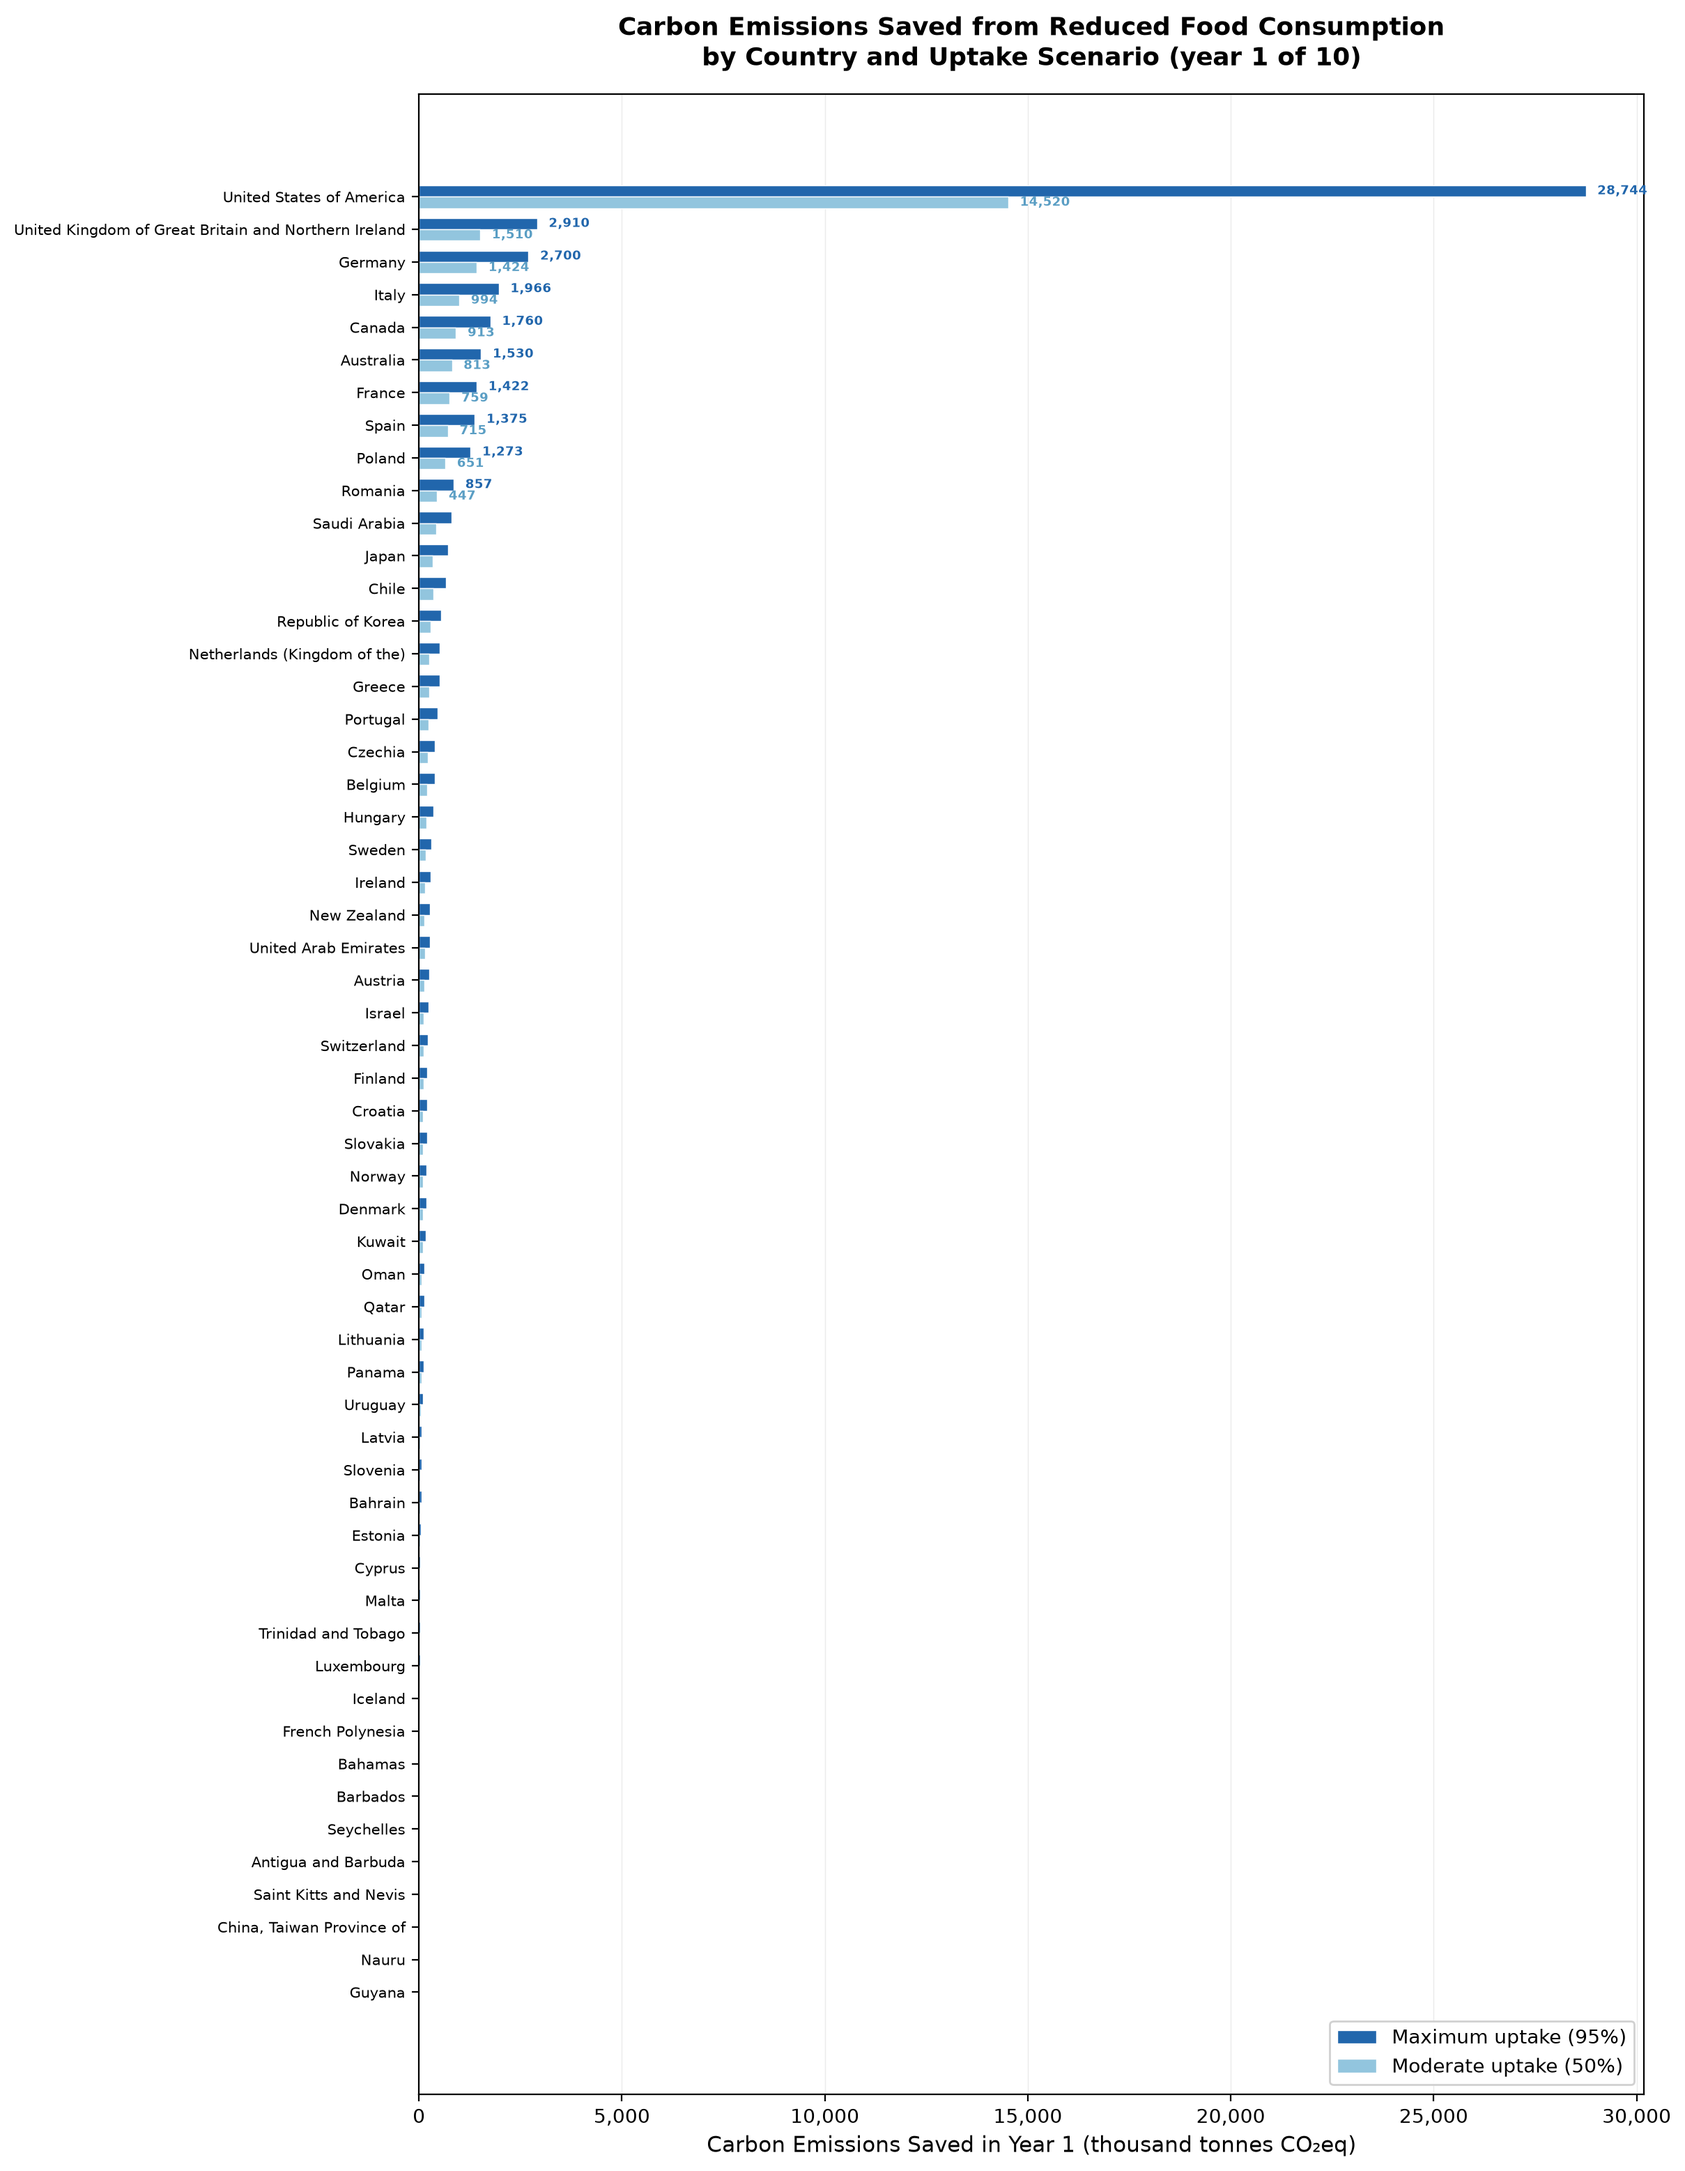
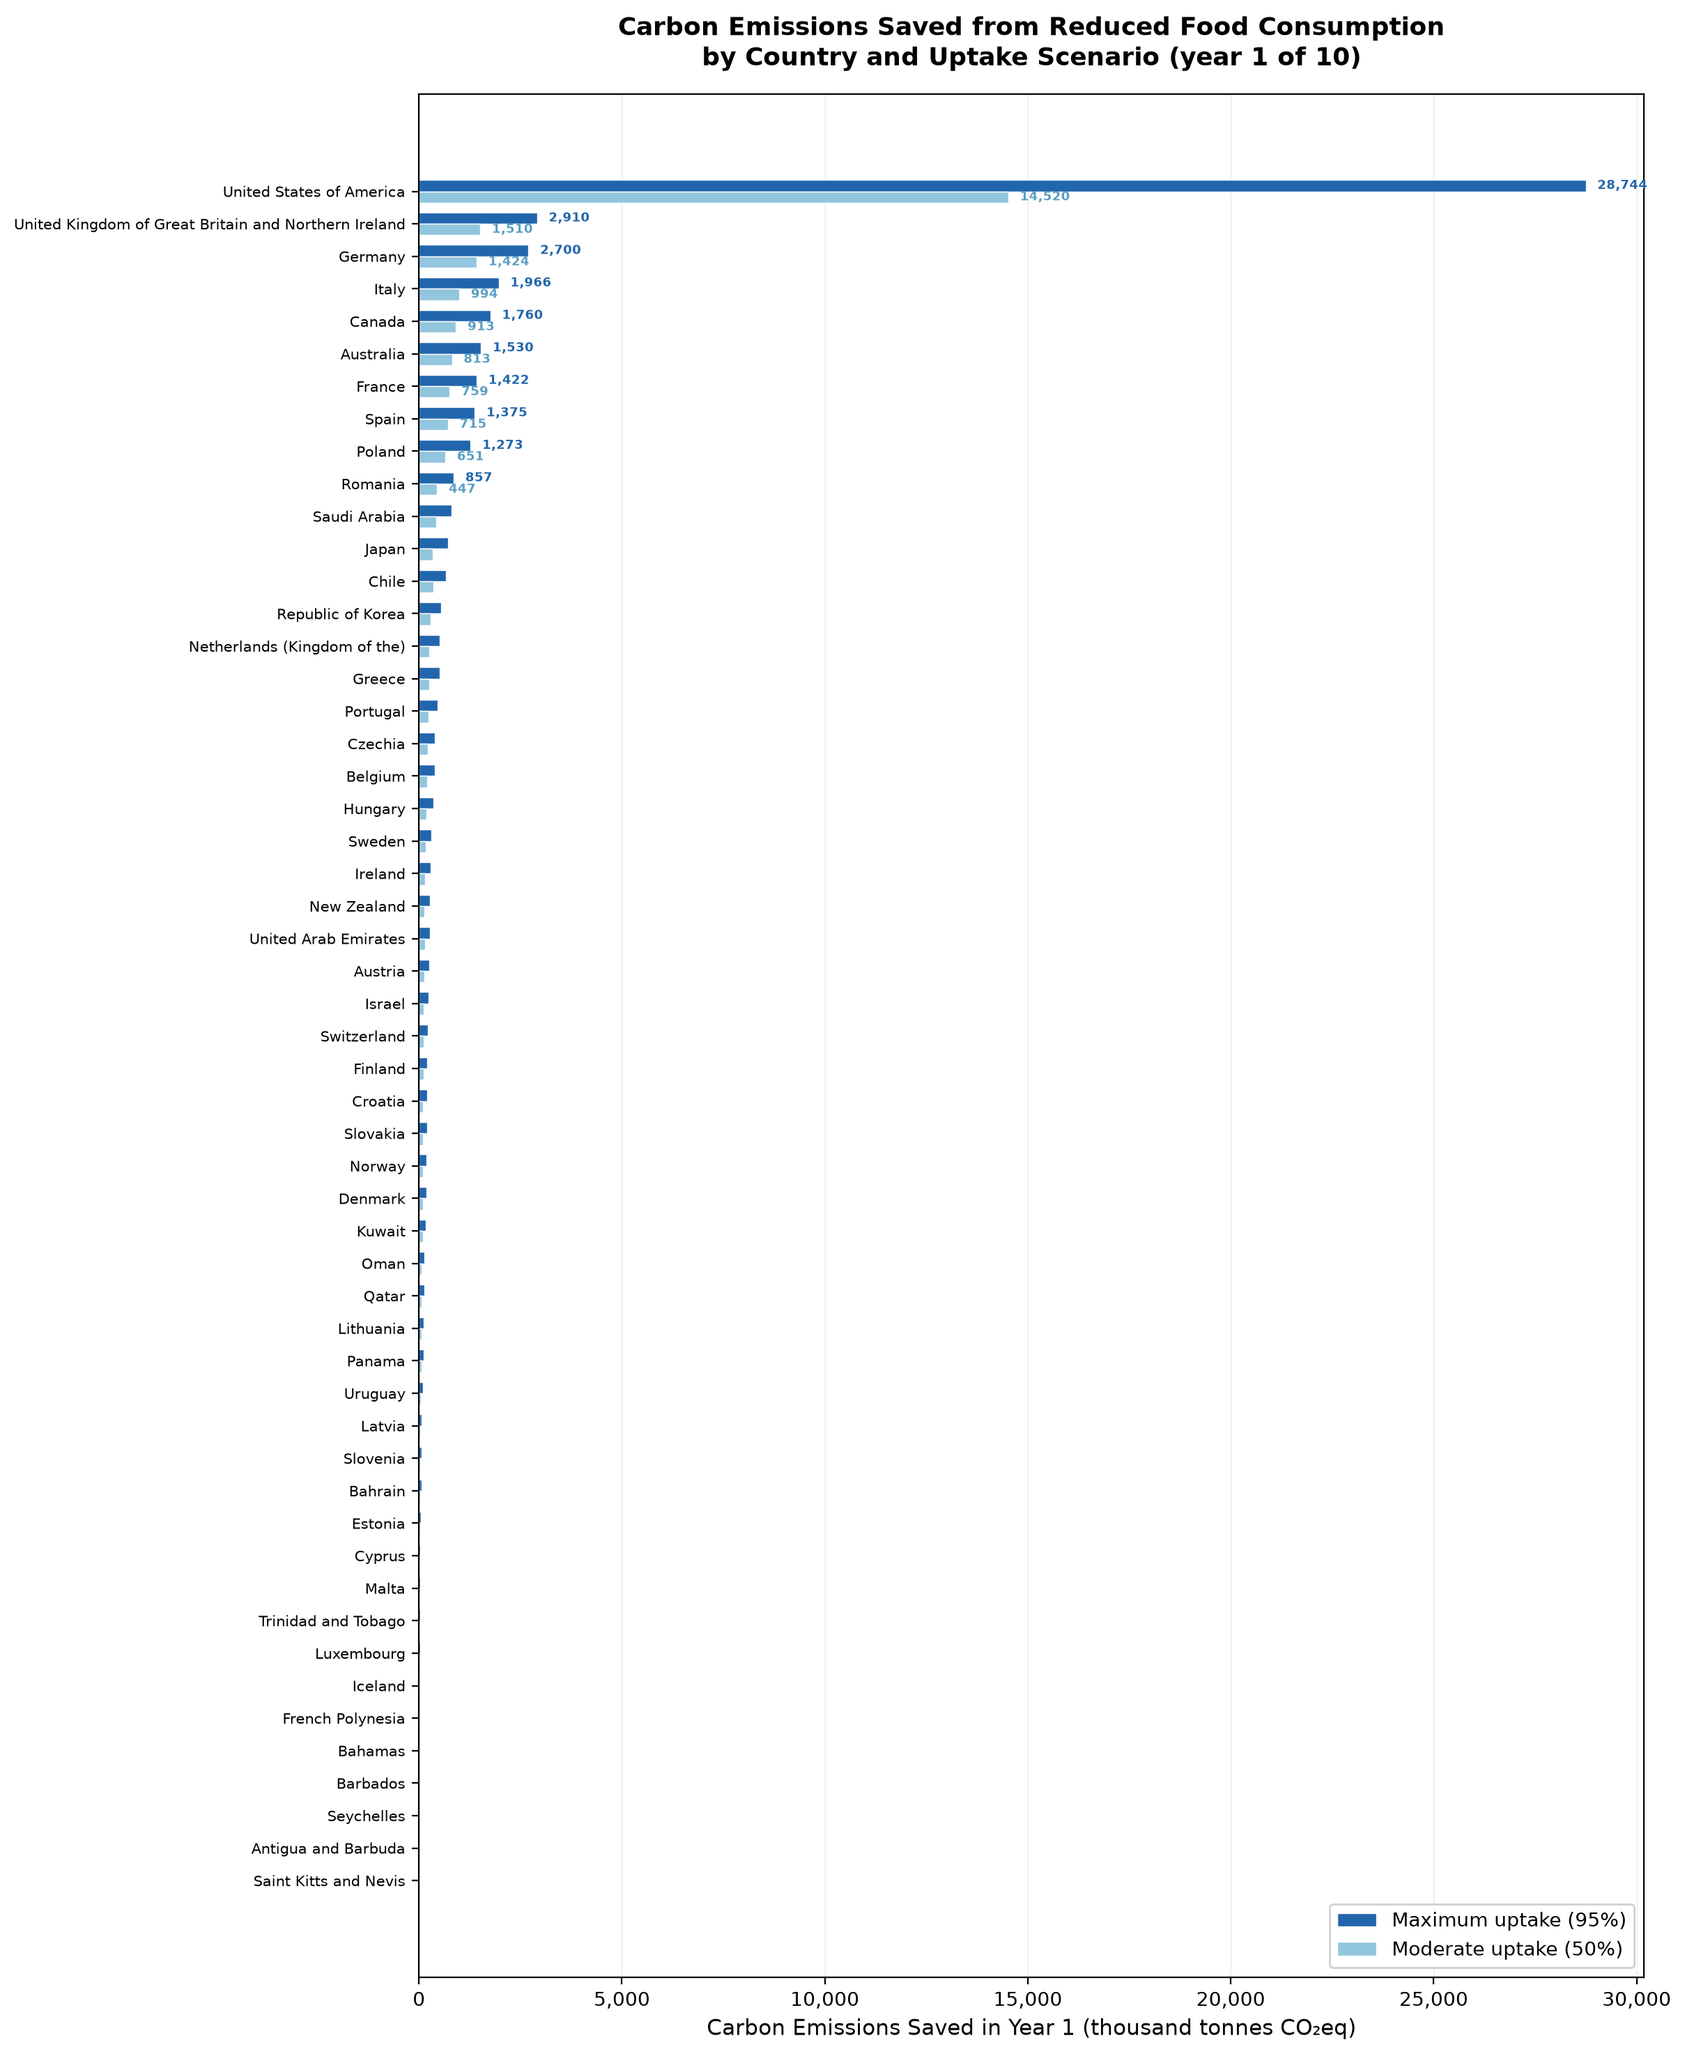
Regenerate the seven outputs the min_count change moves
Full pass, not a partial one: partial regeneration leaves artifacts on mixed bases,
which is how the stale-snapshot problem arose in the first place. All 16 steps of
diagnostics/run_full_pass.sh ran.

The movement set was predicted in writing before anything ran
(diagnostics/predicted_movement.txt) and checked against the diff afterwards
(diagnostics/verify_predicted_diff.py). Seven files were predicted to move, seven
moved, and the sets are identical -- no eighth file, and nothing attributable to a
fourth cause beyond the three named: the six 0.0 -> NaN cells for GUY/NRU/TWN, the
wide pivots dropping an all-NaN index row, and the emissions-figure > 0 filter.

  net_emissions_with_drug.csv                    108 cells, 20 columns
  combined_sensitivity_results.csv               258 cells, 15 columns
  diet_sensitivity_results.csv                    60 cells,  4 columns
  all_sensitivity_overview_country_ratios.csv    TWN row dropped, 41 -> 40
  diet_sensitivity_ratio_comparison.csv          TWN row dropped, 41 -> 40
  combined_sensitivity_ratio_comparison.csv      TWN row dropped, 41 -> 40
  figures/emissions_saved_by_country.png         56 -> 53 bars

Two conditions stronger than the prediction also hold. Every differing cell's new
value is NaN -- 0 of them moved to a different finite number -- and every retained
pivot row is bit-identical, 0 cells differing across the 40 kept rows in each of the
[…]

diff --git a/diagnostics/verify_predicted_diff.py b/diagnostics/verify_predicted_diff.py
@@ -1,0 +1,186 @@
+"""Confirm each moved file changed only in the predicted rows.
+
+The file-level set matched the prediction exactly. This checks the row level: every
+differing cell must belong to GUY, NRU or TWN, and must be a value becoming NaN (or
+a row disappearing from a wide pivot). A differing cell on any other country is a
+fourth cause and gets reported.
+"""
+
+from __future__ import annotations
+
+import io
+import subprocess
+
+import numpy as np
+import pandas as pd
+
+from data_visualization.pipeline import ROOT
+from diagnostics.report import Report
+
+EXPECTED = {"GUY", "NRU", "TWN"}
+rep = Report(
+    "verify_predicted_diff",
+    "Row-level check that the regeneration moved only GUY/NRU/TWN, as predicted.",
+)
+problems: list[str] = []
+
+
+def head_blob(rel: str) -> pd.DataFrame:
+    """Read a file as of HEAD, smudging it if it is an LFS pointer.
+
+    Most data_result CSVs are LFS-tracked, so `git show HEAD:path` returns a
+    ~130-byte pointer, which read_csv happily parses into a one-column frame. That
+    is worse than an error: a comparison against it looks like "every column
+    changed" rather than like a broken read. Detect and smudge.
+    """
+    raw = subprocess.run(
+        ["git", "-C", str(ROOT), "show", f"HEAD:{rel}"],
+        capture_output=True, check=True,
+    ).stdout
+    if raw.startswith(b"version https://git-lfs"):
+        raw = subprocess.run(
+            ["git", "-C", str(ROOT), "lfs", "smudge"],
+            input=raw, capture_output=True, check=True,
+        ).stdout
+    df = pd.read_csv(io.BytesIO(raw), float_precision="round_trip")
+    if len(df.columns) < 2:
+        raise RuntimeError(
+            f"{rel} read as {len(df.columns)} column(s) from HEAD -- almost "
+            "certainly still an unsmudged LFS pointer. Refusing to compare."
+        )
+    return df
+
+
+ROW_DUMPS = [
+    ("data_result/net_emissions_with_drug.csv", ["ISO", "scenario"]),
+    ("data_result/diet_sensitivity_results.csv", ["diet_scenario", "ISO", "scenario"]),
+    ("data_result/combined_sensitivity_results.csv",
+     ["combined_scenario", "ISO", "scenario"]),
+]
+
+rep.h2("Per-country row dumps: which rows and columns moved")
+for rel, key in ROW_DUMPS:
+    old = head_blob(rel)
+    new = pd.read_csv(ROOT / rel, float_precision="round_trip")
+    rep.h3(rel)
+    if list(old.columns) != list(new.columns):
+        problems.append(f"{rel}: column set changed")
+        rep.text("**Column set changed** -- unexpected.")
+        continue
+    if len(old) != len(new):
+        problems.append(f"{rel}: row count changed {len(old)} -> {len(new)}")
+    m = old.merge(new, on=key, suffixes=("_old", "_new"), how="outer", indicator=True)
+    num = [c for c in old.columns if c not in key
+           and pd.api.types.is_numeric_dtype(old[c])
+           and not pd.api.types.is_bool_dtype(old[c])]
+    moved_rows, moved_cells, cols_moved = set(), 0, set()
+    for c in num:
+        a = m[f"{c}_old"].to_numpy(dtype=float)
+        b = m[f"{c}_new"].to_numpy(dtype=float)
+        nn = np.isnan(a) & np.isnan(b)
+        d = (a != b) & ~nn
+        if d.any():
+            cols_moved.add(c)
+            moved_cells += int(d.sum())
+            moved_rows |= set(m.loc[d, "ISO"])
+    off = sorted(moved_rows - EXPECTED)
+    rep.kv({
+        "rows": len(m),
+        "cells differing": moved_cells,
+        "countries with any differing cell": ", ".join(sorted(moved_rows)) or "none",
+        "columns affected": len(cols_moved),
+        "countries outside GUY/NRU/TWN": ", ".join(off) or "none",
+    })
+    rep.text("Columns affected: " + ", ".join(sorted(cols_moved)))
+    if off:
+        problems.append(f"{rel}: unexpected countries {off}")
+    # direction: old finite -> new NaN
+    bad_dir = 0
+    for c in sorted(cols_moved):
+        a = m[f"{c}_old"].to_numpy(dtype=float)
+        b = m[f"{c}_new"].to_numpy(dtype=float)
+        nn = np.isnan(a) & np.isnan(b)
+        d = (a != b) & ~nn
+        bad_dir += int((d & ~np.isnan(b)).sum())
+    rep.kv({"differing cells whose NEW value is not NaN": bad_dir})
+    if bad_dir:
+        problems.append(f"{rel}: {bad_dir} cells moved to a non-NaN value")
+
+rep.h2("Wide pivots: which index rows disappeared")
+for rel in [
+    "data_result/all_sensitivity_overview_country_ratios.csv",
+    "data_result/diet_sensitivity_ratio_comparison.csv",
+    "data_result/combined_sensitivity_ratio_comparison.csv",
+]:
+    old = head_blob(rel)
+    new = pd.read_csv(ROOT / rel, float_precision="round_trip")
+    gone = sorted(set(old["ISO"]) - set(new["ISO"]))
+    added = sorted(set(new["ISO"]) - set(old["ISO"]))
+    rep.h3(rel)
+    rep.kv({
+        "rows before": len(old), "rows after": len(new),
+        "ISO removed": ", ".join(gone) or "none",
+        "ISO added": ", ".join(added) or "none",
+    })
+    if set(gone) - EXPECTED or added:
+        problems.append(f"{rel}: removed {gone}, added {added}")
+    # every retained row must be bit-identical
+    common = sorted(set(old["ISO"]) & set(new["ISO"]))
+    o = old[old["ISO"].isin(common)].sort_values("ISO").reset_index(drop=True)
+    n = new[new["ISO"].isin(common)].sort_values("ISO").reset_index(drop=True)
+    shared = [c for c in o.columns if c in n.columns
+              and pd.api.types.is_numeric_dtype(o[c])]
+    bad = 0
+    for c in shared:
+        a, b = o[c].to_numpy(dtype=float), n[c].to_numpy(dtype=float)
+        nn = np.isnan(a) & np.isnan(b)
+        bad += int(((a != b) & ~nn).sum())
+    rep.kv({"retained rows": len(common),
+            "cells differing among retained rows": bad})
+    if bad:
+        problems.append(f"{rel}: {bad} cells moved on retained rows")
+
+rep.h2("Headline invariants")
+be = pd.read_csv(ROOT / "data_result" / "net_emissions_with_drug.csv",
+                 float_precision="round_trip")
+rows = []
+for sc in ("max_uptake", "mod_uptake"):
+    v = be[(be["scenario"] == sc) & (be["annual_food_savings_t"] > 0)
+           & (be["total_survivor_emissions_10yr"] > 0)
+           & np.isfinite(be["ratio_food_to_mort"])]
+    rows.append({
+        "scenario": sc, "N complete": len(v),
+        "cum ratio 10yr": v["total_food_savings_10yr"].sum()
+                          / v["total_survivor_emissions_10yr"].sum(),
+        "min ratio": v["ratio_food_to_mort"].min(),
+        "min ISO": v.loc[v["ratio_food_to_mort"].idxmin(), "ISO"],
+    })
+tab = pd.DataFrame(rows)
+rep.table(tab)
+if int(tab.loc[tab.scenario == "max_uptake", "N complete"].iloc[0]) != 40:
+    problems.append("break-even set is no longer 40")
+
+gdp = pd.read_csv(ROOT / "data_result" / "gdp_share_of_global_economy.csv")
+cov = gdp.loc[gdp["in_complete_subset"], "share_of_world_pct"].sum()
+rep.kv({
+    "complete-data GDP coverage (%)": cov,
+    "rows in the GDP table": len(gdp),
+    "is 58.96% to 2 dp": bool(round(cov, 2) == 58.96),
+})
+if round(cov, 2) != 58.96:
+    problems.append(f"GDP coverage moved to {cov:.4f}%")
+
+rep.h2("Result")
+if problems:
+    rep.text("**UNEXPECTED MOVEMENT:**")
+    for p in problems:
+        rep.bullet(p)
+else:
+    rep.text(
+        "Every differing cell belongs to GUY, NRU or TWN; every one moved to NaN; "
+        "every retained pivot row is bit-identical; the break-even set is 40 and "
+        "coverage is 58.96%. Matches the prediction with nothing left over."
+    )
+rep.save()
+if problems:
+    raise SystemExit(1)

diff --git a/CHANGES.md b/CHANGES.md
@@ -1141,8 +1141,28 @@ read sites:
   that total by **+15,427.225174 t** (0.0154 Mt). It is a console VALIDATION line,
   written to no CSV.
 
-**Not regenerated.** The emissions figure and that console line will move on the
-next pass; no reported CSV or reference value does, so nothing is rebuilt here.
+**Regenerated in the following commit**, as a full pass rather than a partial one,
+with the movement set predicted in writing beforehand
+(`diagnostics/predicted_movement.txt`) and checked afterwards
+(`diagnostics/verify_predicted_diff.py`). Seven files moved and the actual set
+matched the prediction exactly, with no eighth file and no fourth cause:
+
+| file | movement |
+|---|---|
+| `net_emissions_with_drug.csv` | 108 cells, 20 columns |
+| `combined_sensitivity_results.csv` | 258 cells, 15 columns |
+| `diet_sensitivity_results.csv` | 60 cells, 4 columns |
+| `all_sensitivity_overview_country_ratios.csv` | TWN row dropped, 41 → 40 |
+| `diet_sensitivity_ratio_comparison.csv` | TWN row dropped, 41 → 40 |
+| `combined_sensitivity_ratio_comparison.csv` | TWN row dropped, 41 → 40 |
+| `figures/emissions_saved_by_country.png` | 56 → 53 bars |
+
+Every differing cell belongs to GUY, NRU or TWN; **every one moved to NaN**, none
+to a different finite value; and every retained pivot row is bit-identical. GUY and
+NRU were already absent from the three pivots, their ratios having already been
+NaN. `reference/metrics.py` passes at **exactly 0.0 on all 47 values** with no
+`--write`, the break-even set is still **40**, and complete-data GDP coverage is
+still **58.956583%**. The reference snapshots were not touched by the pass.
 
 ---
 
